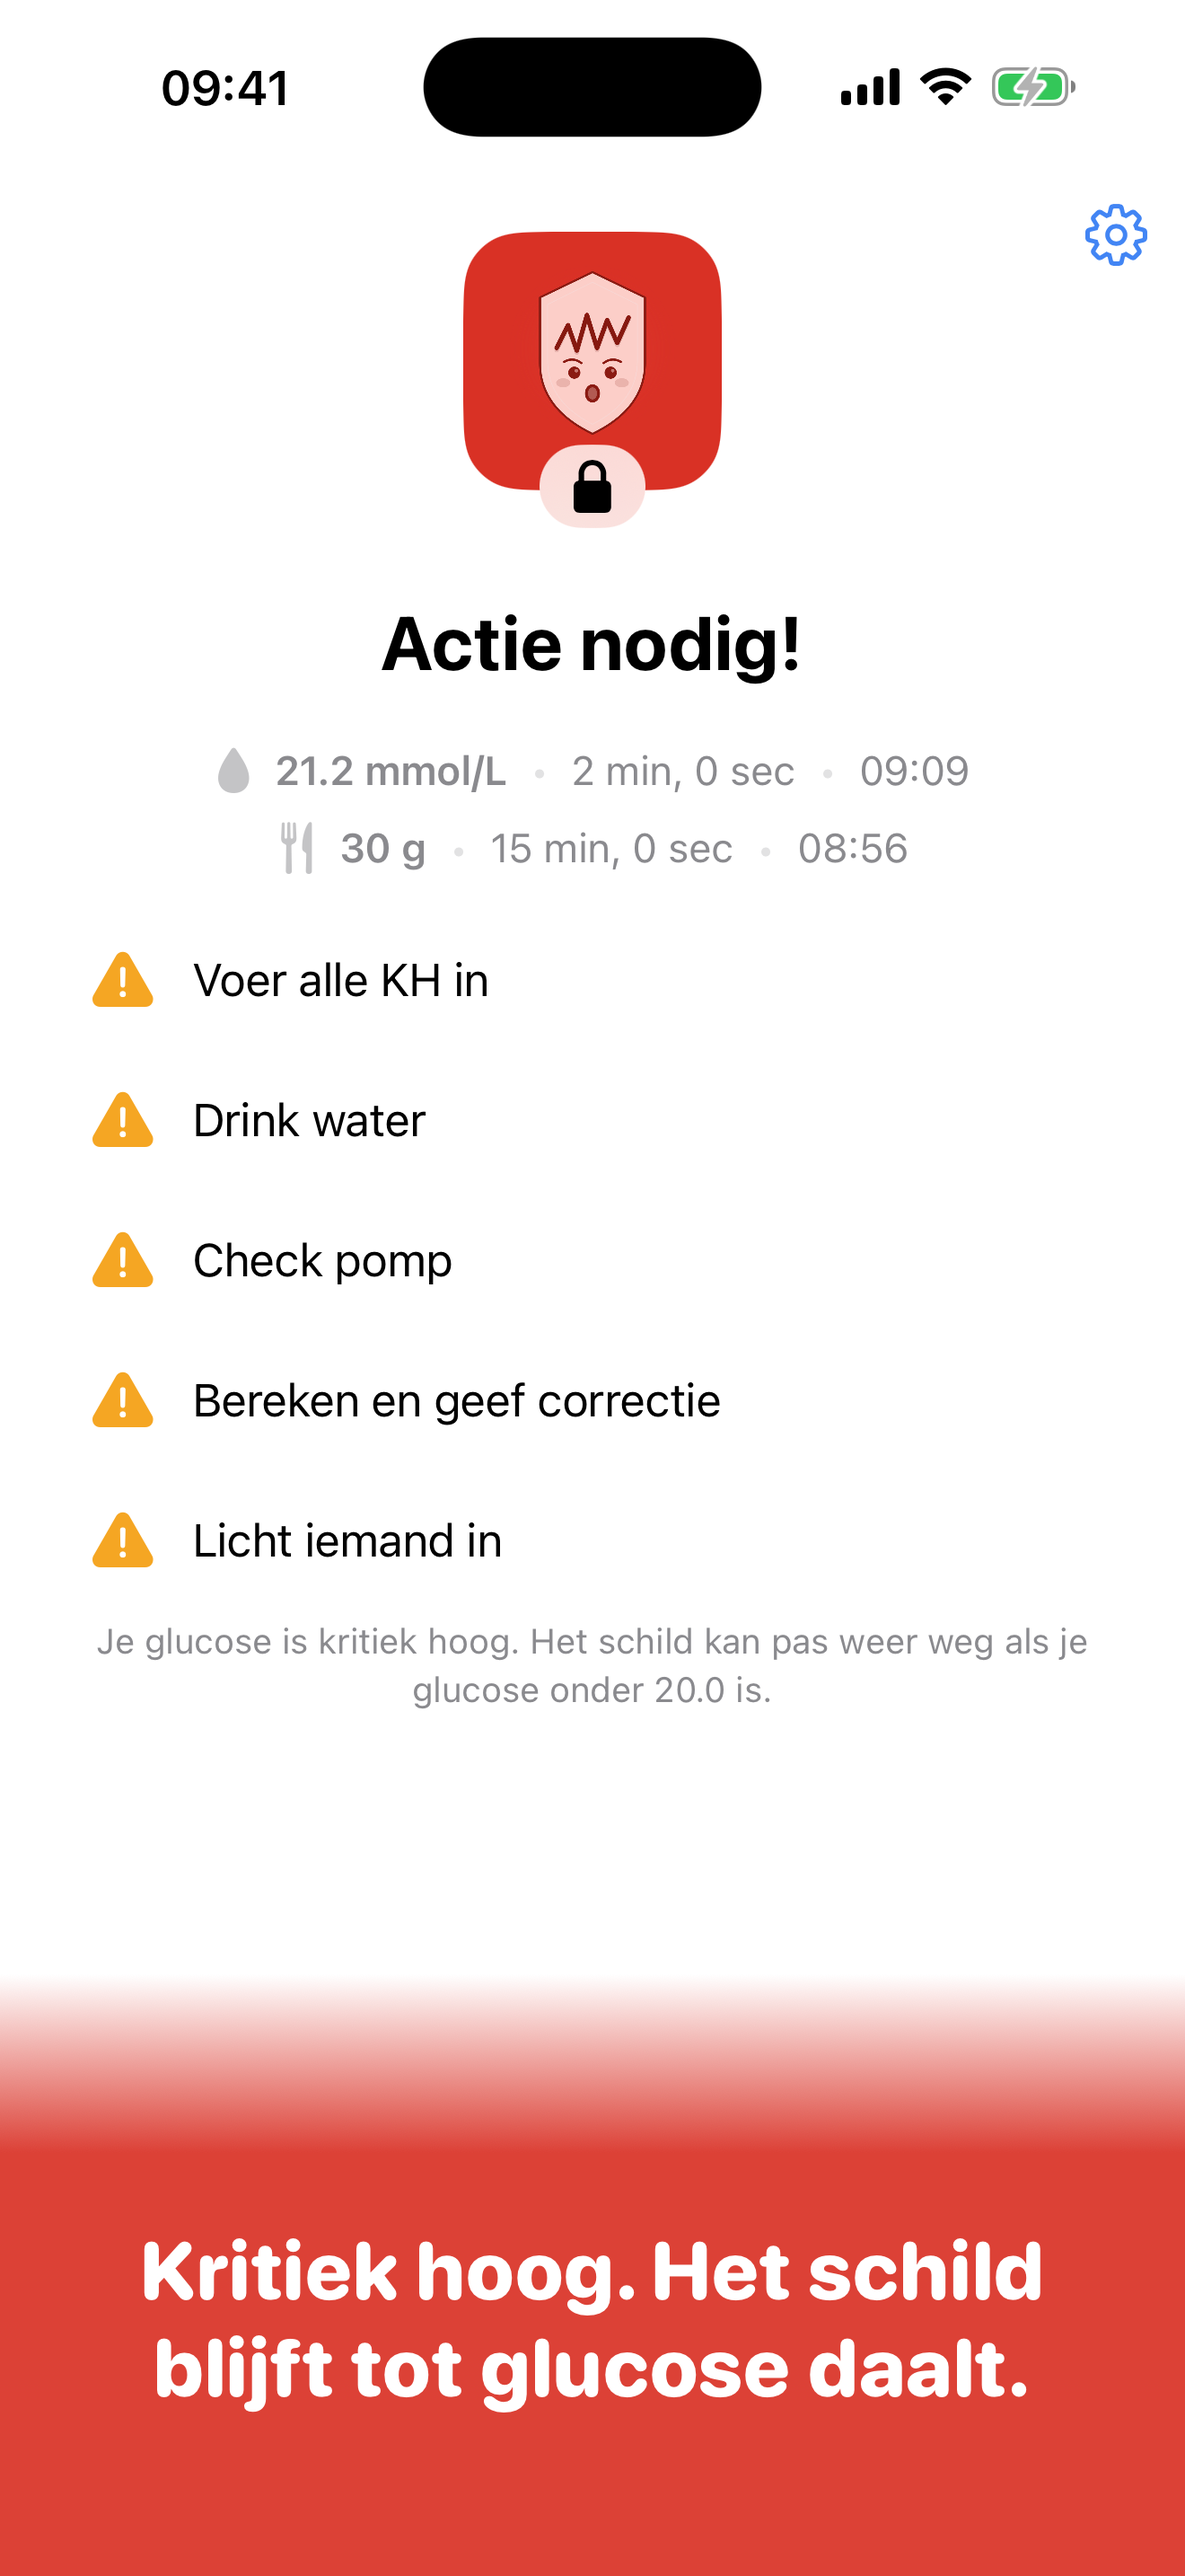
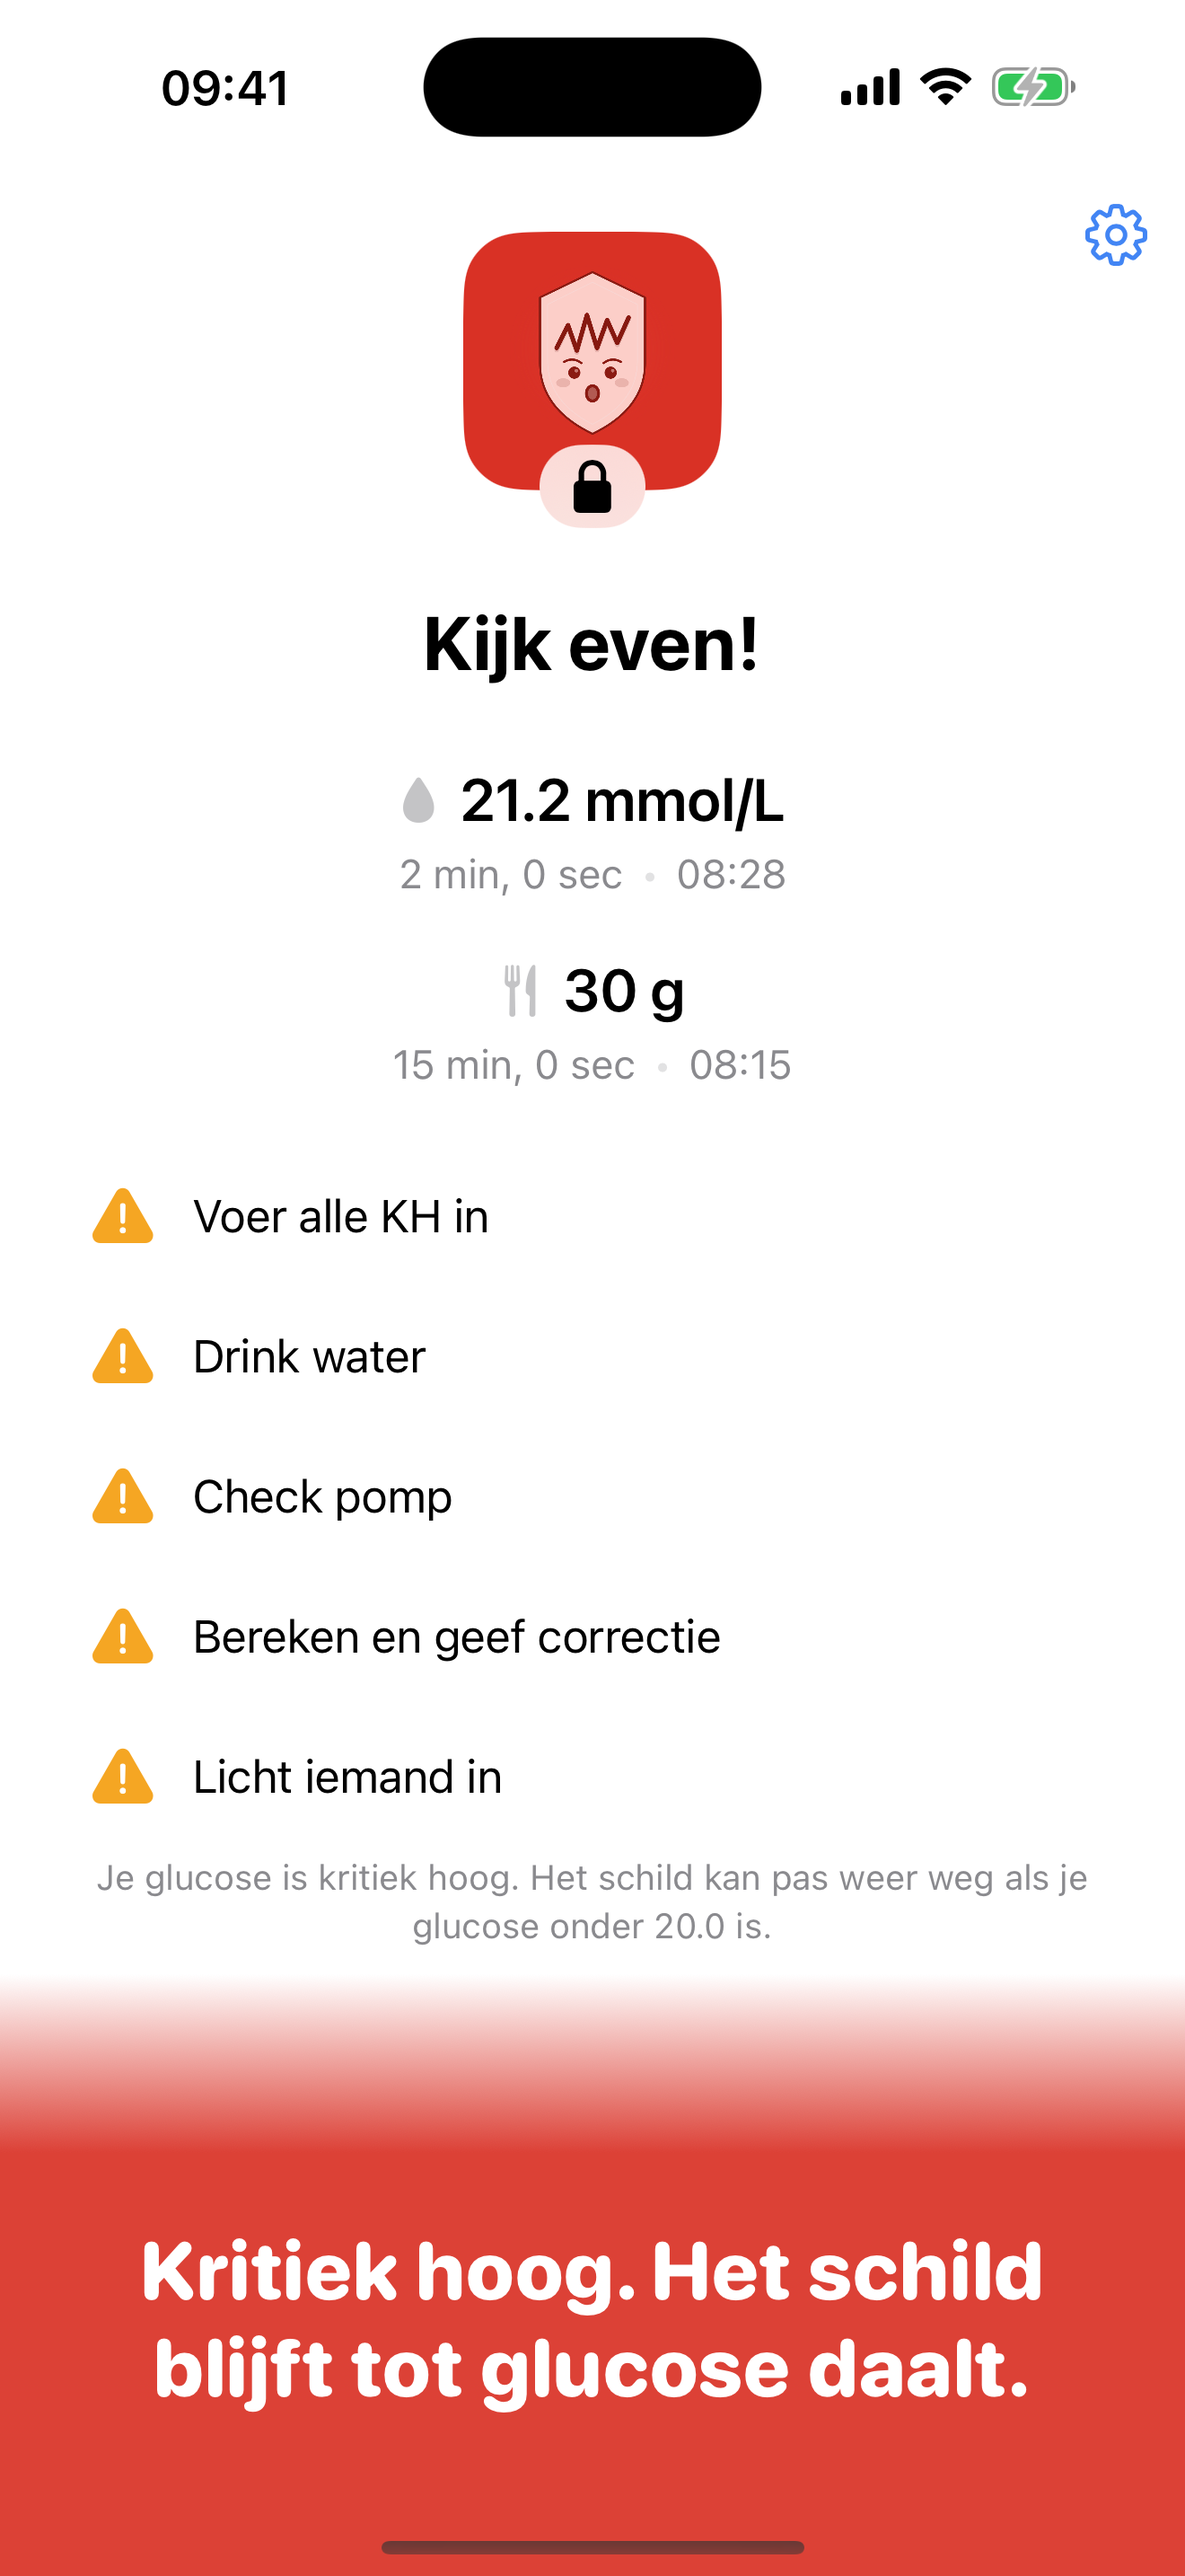
fix: address App Store rejection Guideline 1.4.1 (medical info transparency) (#142)
* feat(ios): surface data source name on HomeView status panel

Apple rejected 1.0 under Guideline 1.4.1 (medical information without
citations). The core rebuttal is that this app is a passthrough: both
the data origin and the thresholds are user-configured. Making the
source visible at a glance makes that transparent without implying the
app itself is a medical authority.

Changes:
- Add `DataSource.displayName` (localized) to SharedKit so every
  surface can name the active source consistently.
- Rework the status panel in HomeView: value on line 1 (title2,
  adaptive black), time-ago + absolute time + source name on line 2
  (subheadline, secondaryLabel). Increased spacing between glucose and
  carb blocks from 12 → 20 pt.

* feat(ios): add Medical Information screen in Settings

Adds a passphrase-free NavigationLink in SettingsView leading to a new
MedicalInfoView. Four sections make the app's position explicit:

- Not a medical device (user-configured thresholds, not clinical)
- Where your data comes from (HealthKit / Nightscout / Demo passthrough)
- About thresholds (user-set, not medical recommendations)
- Always consult your care team (emergency note)

The threshold settings footer is updated to point users here.
Localized in English and Dutch.

Part of the Guideline 1.4.1 rejection response.

* feat(appstore): recapture screenshots at correct iPhone 17 Pro Max size

Previous captures were 2064×2752 (iPad Pro 13-inch) because the iPad
[…]

diff --git a/iOS/App/HomeView.swift b/iOS/App/HomeView.swift
@@ -374,38 +374,56 @@ struct HomeView: View {
 
     @ViewBuilder
     private func statusSummaryView(content: ShieldContent) -> some View {
-        VStack(spacing: 8) {
-            HStack(spacing: 8) {
-                Image(systemName: "drop.fill")
-                    .foregroundStyle(.secondary)
-                Text(glucoseValueText(for: content))
-                    .font(.subheadline.weight(.semibold))
-                Text("•")
-                    .foregroundStyle(.tertiary)
-                relativeTimeText(from: glucoseDate, hasData: content.glucose != nil, fallback: strings.glucoseNoData)
-                    .font(.subheadline)
-                if content.glucose != nil, glucoseDate != nil {
-                    Text("•")
-                        .foregroundStyle(.tertiary)
-                    absoluteTimeText(from: glucoseDate, hasData: true)
+        VStack(spacing: 20) {
+            VStack(spacing: 4) {
+                HStack(spacing: 8) {
+                    Image(systemName: "drop.fill")
+                        .foregroundStyle(.secondary)
+                    Text(glucoseValueText(for: content))
+                        .font(.title2.weight(.semibold))
+                        .foregroundStyle(Color(.label))
+                }
+                HStack(spacing: 6) {
+                    relativeTimeText(from: glucoseDate, hasData: content.glucose != nil, fallback: strings.glucoseNoData)
                         .font(.subheadline)
+                    if content.glucose != nil, glucoseDate != nil {
+                        Text("•")
+                            .foregroundStyle(.tertiary)
+                        absoluteTimeText(from: glucoseDate, hasData: true)
+                            .font(.subheadline)
+                    }
+                    if let source = glucoseSource, content.glucose != nil {
+                        Text("•")
+                            .foregroundStyle(.tertiary)
+                        Text(source.displayName)
+                            .font(.subheadline)
+                    }
                 }
             }
 
-            HStack(spacing: 8) {
-                Image(systemName: "fork.knife")
-                    .foregroundStyle(.secondary)
-                Text(carbValueText(for: content))
-                    .font(.subheadline.weight(.semibold))
-                Text("•")
-                    .foregroundStyle(.tertiary)
-                relativeTimeText(from: carbDate, hasData: content.carbs != nil, fallback: strings.carbsNoData)
-                    .font(.subheadline)
-                if content.carbs != nil, carbDate != nil {
-                    Text("•")
-                        .foregroundStyle(.tertiary)
-                    absoluteTimeText(from: carbDate, hasData: true)
+            VStack(spacing: 4) {
+                HStack(spacing: 8) {
+                    Image(systemName: "fork.knife")
+                        .foregroundStyle(.secondary)
+                    Text(carbValueText(for: content))
+                        .font(.title2.weight(.semibold))
+                        .foregroundStyle(Color(.label))
+                }
+                HStack(spacing: 6) {
+                    relativeTimeText(from: carbDate, hasData: content.carbs != nil, fallback: strings.carbsNoData)
                         .font(.subheadline)
+                    if content.carbs != nil, carbDate != nil {
+                        Text("•")
+                            .foregroundStyle(.tertiary)
+                        absoluteTimeText(from: carbDate, hasData: true)
+                            .font(.subheadline)
+                    }
+                    if let source = carbsSource, content.carbs != nil {
+                        Text("•")
+                            .foregroundStyle(.tertiary)
+                        Text(source.displayName)
+                            .font(.subheadline)
+                    }
                 }
             }
         }
@@ -436,6 +454,22 @@ struct HomeView: View {
         return hasCarbData ? now.addingTimeInterval(-carbMinutesAgo * 60) : nil
         #else
         return SharedDataManager.shared.currentCarbsReading?.sampleAt
+        #endif
+    }
+
+    private var glucoseSource: DataSource? {
+        #if targetEnvironment(simulator)
+        return nil
+        #else
+        return SharedDataManager.shared.currentGlucoseReading?.source
+        #endif
+    }
+
+    private var carbsSource: DataSource? {
+        #if targetEnvironment(simulator)
+        return nil
+        #else
+        return SharedDataManager.shared.currentCarbsReading?.source
         #endif
     }
 

diff --git a/iOS/App/MedicalInfoView.swift b/iOS/App/MedicalInfoView.swift
@@ -1,0 +1,40 @@
+import SwiftUI
+
+struct MedicalInfoView: View {
+    var body: some View {
+        List {
+            Section {
+                Text("medicalInfo.notADevice", tableName: "Localizable")
+                    .font(.body)
+            } header: {
+                Text("medicalInfo.notADeviceHeader", tableName: "Localizable")
+            }
+
+            Section {
+                Text("medicalInfo.dataSources", tableName: "Localizable")
+                    .font(.body)
+            } header: {
+                Text("medicalInfo.dataSourcesHeader", tableName: "Localizable")
+            }
+
+            Section {
+                Text("medicalInfo.thresholds", tableName: "Localizable")
+                    .font(.body)
+            } header: {
+                Text("medicalInfo.thresholdsHeader", tableName: "Localizable")
+            }
+
+            Section {
+                Text("medicalInfo.careTeam", tableName: "Localizable")
+                    .font(.body)
+                Text("medicalInfo.emergency", tableName: "Localizable")
+                    .font(.body)
+                    .foregroundStyle(.secondary)
+            } header: {
+                Text("medicalInfo.adviceHeader", tableName: "Localizable")
+            }
+        }
+        .navigationTitle(String(localized: "medicalInfo.title"))
+        .navigationBarTitleDisplayMode(.inline)
+    }
+}

diff --git a/iOS/App/SettingsView.swift b/iOS/App/SettingsView.swift
@@ -181,6 +181,14 @@ struct SettingsView: View {
                 }
 
                 Section {
+                    NavigationLink {
+                        MedicalInfoView()
+                    } label: {
+                        Label(String(localized: "settings.medicalInfoRow"), systemImage: "cross.circle")
+                    }
+                }
+
+                Section {
                     Button(role: .destructive) {
                         showResetAlert = true
                     } label: {
@@ -372,7 +380,7 @@ struct AttentionRulesSettingsView: View {
             } header: {
                 Text(String(localized: "settings.glucoseHeader \(unit.label)"))
             } footer: {
-                Text("settings.criticalThresholdFooter", tableName: "Localizable")
+                Text("settings.thresholdsFooter", tableName: "Localizable")
             }
 
             Section {

diff --git a/iOS/SharedKit/Sources/SharedKit/UnifiedDataReader.swift b/iOS/SharedKit/Sources/SharedKit/UnifiedDataReader.swift
@@ -12,6 +12,15 @@ public enum DataSource: String, Sendable, CaseIterable {
     case nightscout
     case easyView
     case demo
+
+    public var displayName: String {
+        switch self {
+        case .healthKit: String(localized: "dataSource.healthKit", bundle: .module)
+        case .nightscout: String(localized: "dataSource.nightscout", bundle: .module)
+        case .easyView: String(localized: "dataSource.easyView", bundle: .module)
+        case .demo: String(localized: "dataSource.demo", bundle: .module)
+        }
+    }
 }
 
 /// Centralised key strings for everything tied to the per-source data

diff --git a/.claude/skills/appstore-screenshots/SKILL.md b/.claude/skills/appstore-screenshots/SKILL.md
@@ -82,6 +82,8 @@ The script writes to `iOS/fastlane/screenshots/<locale>/<NN>_<scene>.png` (flat 
 ## Workflow
 
 1. **Capture.** Run the script with no args. Use `--no-build` if a fresh `xcodebuild` already happened in this session.
+   - Before running, confirm only the target iPhone simulator is booted: `xcrun simctl list devices booted`. If any other simulator (iPad, Watch, etc.) is listed as `Booted`, shut it down with `xcrun simctl shutdown <UDID>` — `simctl io booted screenshot` captures the wrong device when multiple simulators are booted simultaneously. The capture script boots iPhone and Watch in sequence and always leaves both running after the run; shut down the Watch before a subsequent iPhone-only pass.
+1a. **Sync to the marketing site.** After a successful capture run, always run `make docs-sync-screenshots` to copy the curated subset into `docs/assets/screenshots/`. Do this even if you used `capture.sh` directly instead of `make appstore-screenshots` (which does both steps in one go).
 2. **Review every PNG.** Read each file in the agent client and check:
    - Status bar reads `9:41`, full bars, full battery (charged charging glyph).
    - Glucose / carb numbers match the harness presets (greenShield: 6.4 mmol/L + 25 g; orangeShield: 14.8 mmol/L + 30 g; redShield: 21.2 mmol/L — critical, above the 20.0 default). English locales display as mg/dL, everything else as mmol/L.
@@ -115,6 +117,8 @@ Repeat until the title reads well in marketing context.
 | Symptom | Cause | Fix |
 |---|---|---|
 | `CoreSimulatorService connection became invalid` | simctl can't talk to the host service | Run any `xcrun simctl …` once outside the agent sandbox; opening Xcode also fixes it |
+| Screenshots are iPad-sized (e.g. 2064×2752 instead of 1320×2868) | An iPad or other simulator was booted alongside the iPhone — `simctl io booted` grabbed it | `xcrun simctl list devices booted`, then `xcrun simctl shutdown <UDID>` for any non-iPhone device, then rerun capture with `--no-build` |
+| Marketing site screenshots are stale after a capture run | `docs-sync-screenshots` was not run after the capture | `make docs-sync-screenshots` (or just use `make appstore-screenshots` which does both) |
 | Captures show wrong language | `-AppleLanguages` ignored by some screens | Confirm the locale file exists in the iOS bundle (`iOS/App/<lang>.lproj/`) |
 | `SetupChecklistCard` showing on greenShield / orangeShield / redShield | Build is stale (harness fix not yet compiled) | Drop `--no-build` and rerun |
 | `redShield` shows a "Continue" / check-in button | Glucose preset fell below the critical threshold (e.g. a preset edit, or a lowered threshold) | Confirm `ScreenshotHarness.redShield.glucose` is ≥ `CriticalGlucoseThreshold.default` and rerun |
